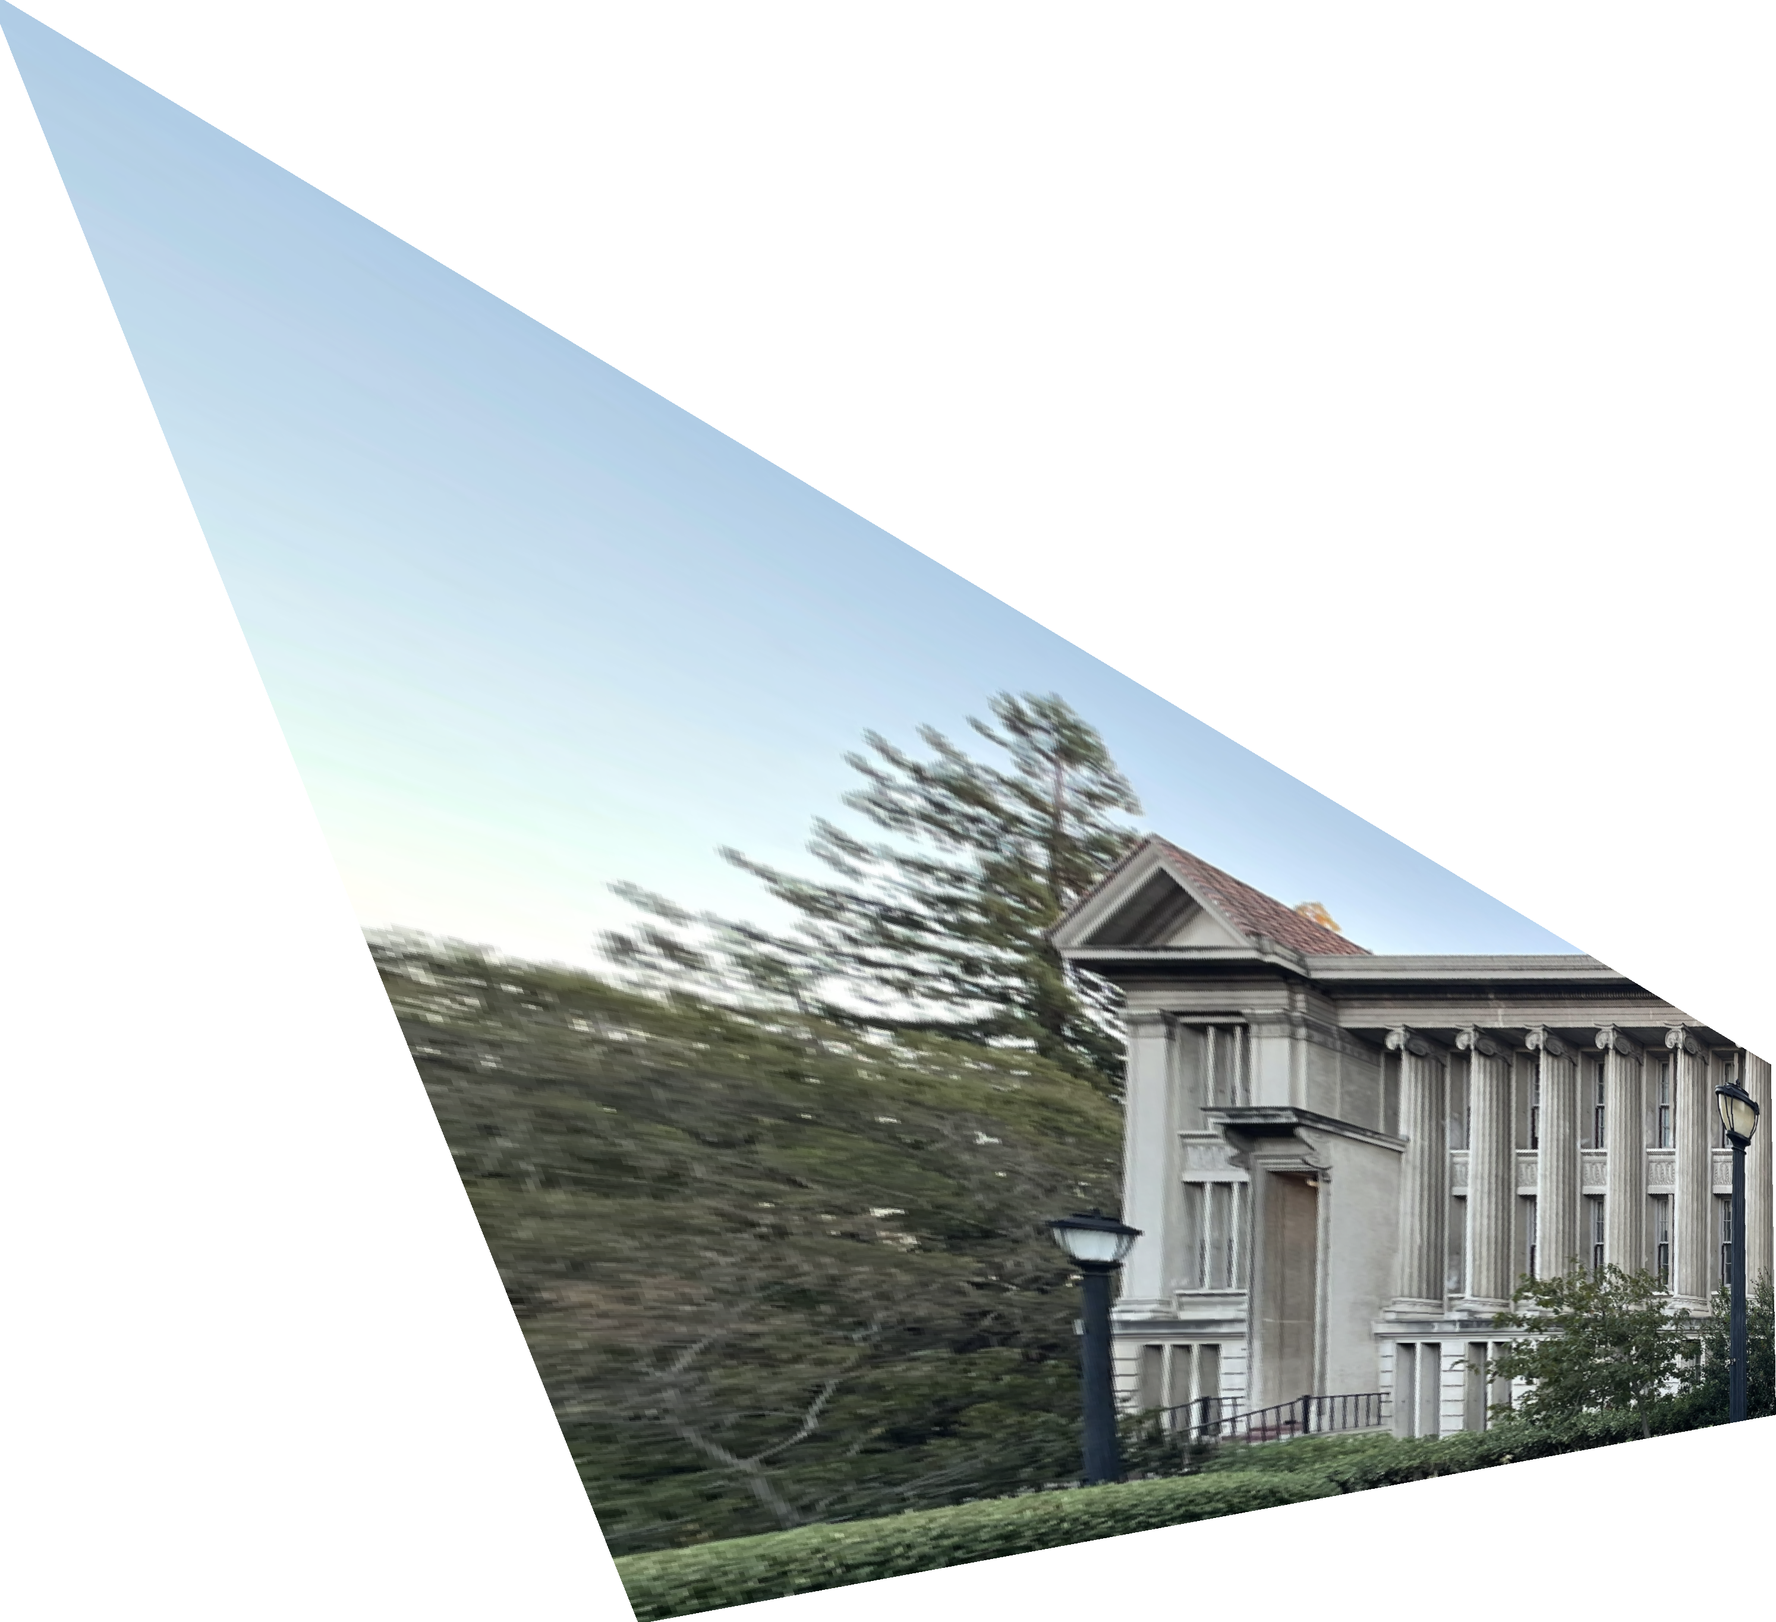
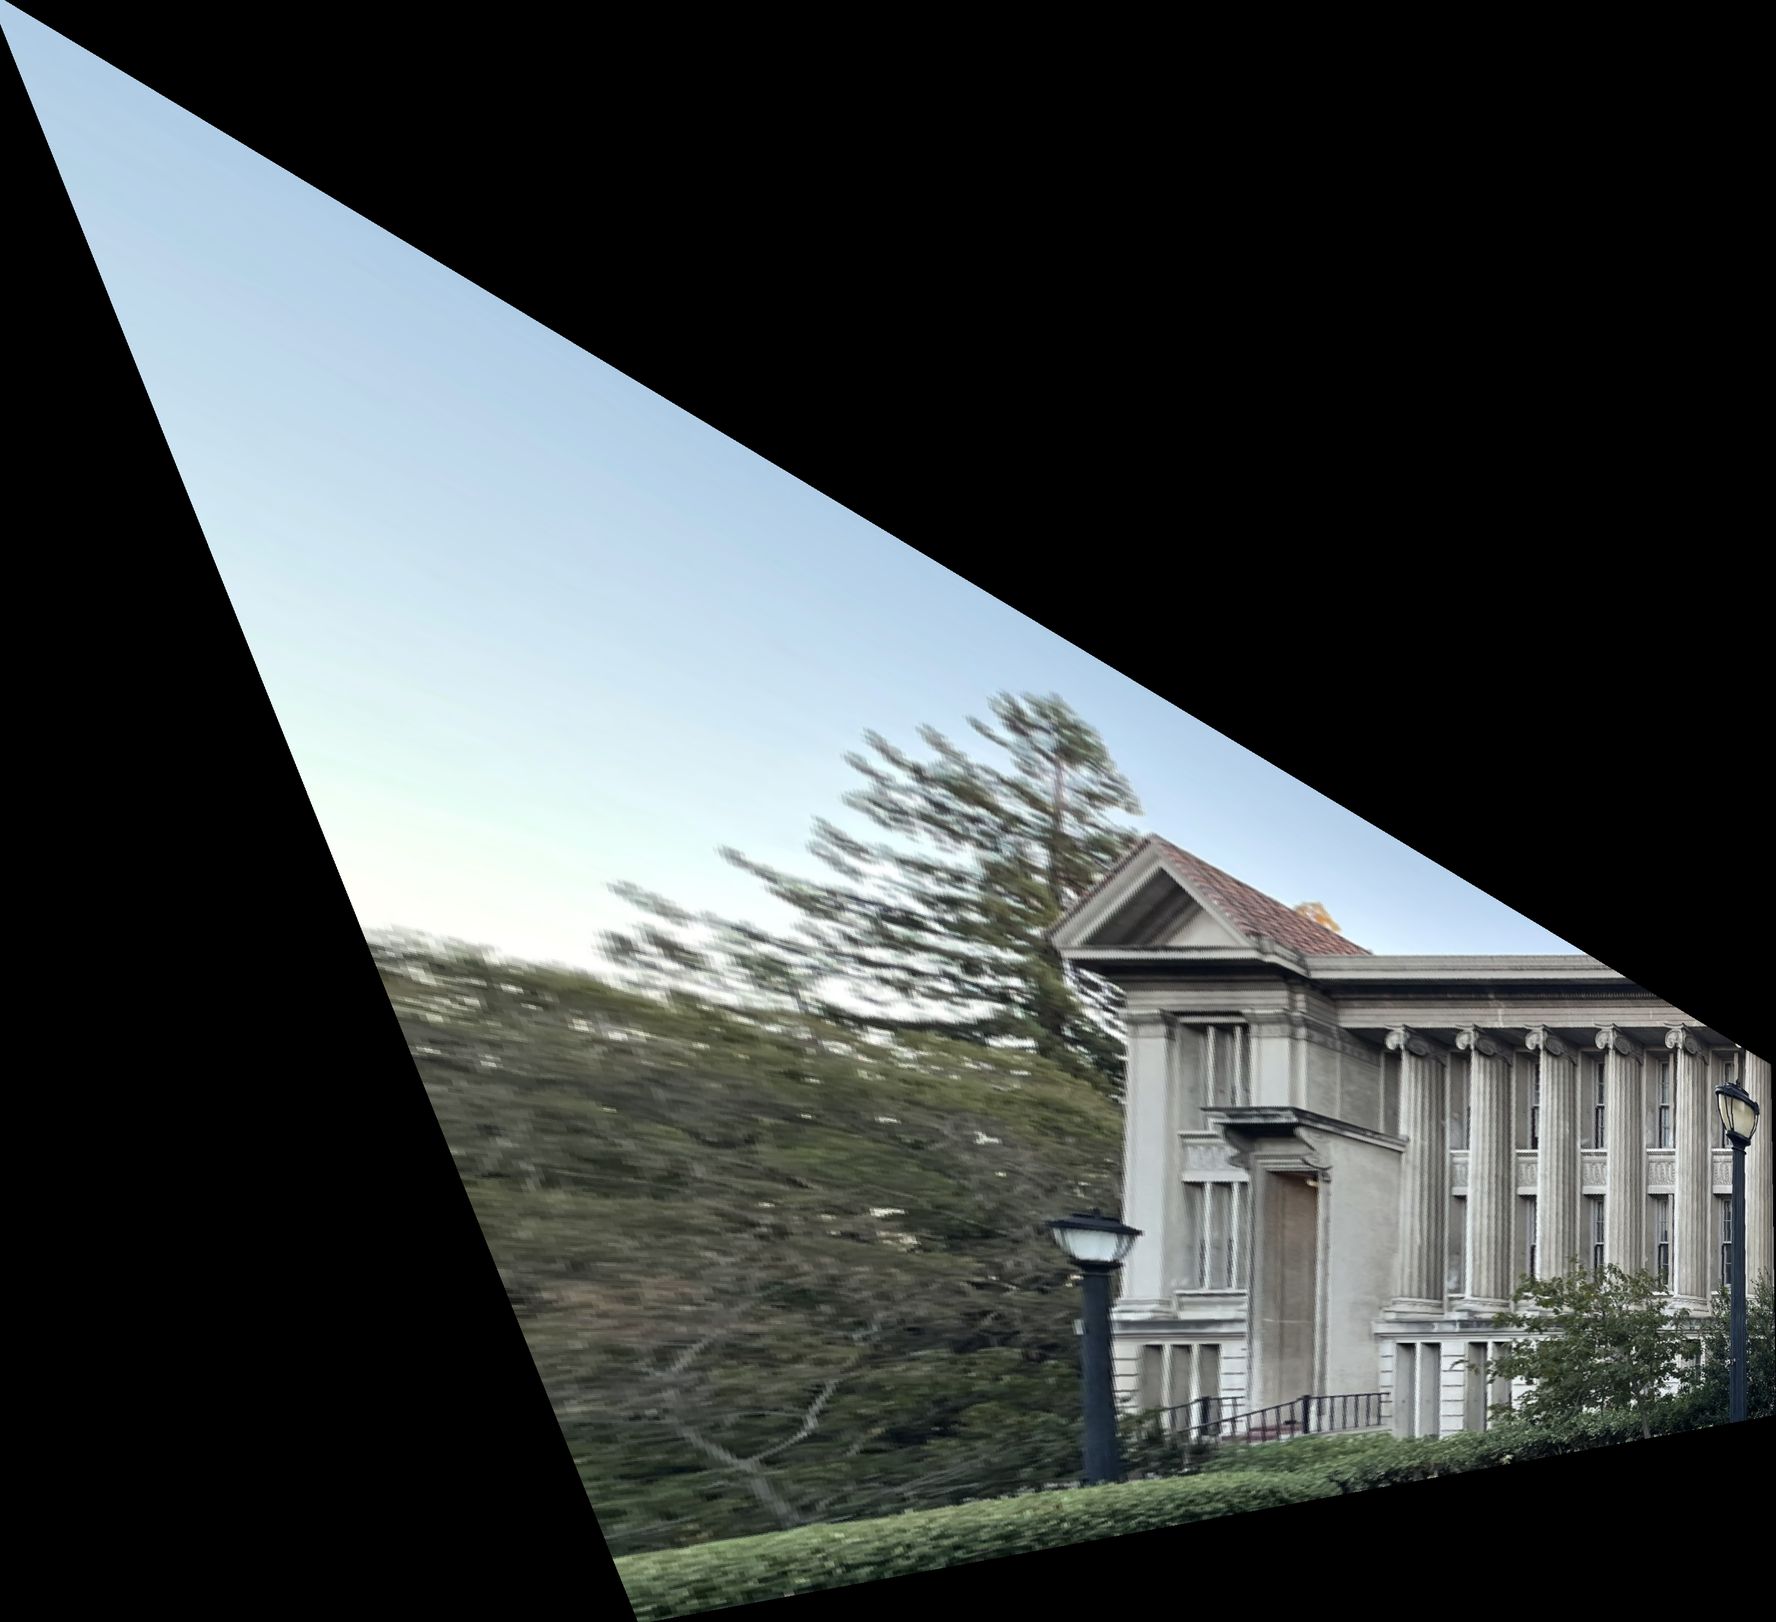
proj3a a.1-a.3 pres clean

diff --git a/proj3/index.html b/proj3/index.html
@@ -61,12 +61,13 @@
 			</p>
 		</div>
 
-		<h2 id="part1">Image Warping & Mosaicing</h2>
+		<h2 id="part1">Part 1: Image Warping & Mosaicing</h2>
 
     <h2 id="part1.1">Shooting our Pictures</h2>
 		<div>
 			<p> 
-				Fixed COP & rotation
+                Consider the below pairs of images, which are taken from the same center of projection (COP), 
+                with one being rotated at more of an angle.
 			</p>
             <div class="image-grid-2" style="align-items:center; justify-content:center;">
                 <div class="image-item">
@@ -94,46 +95,117 @@
                     <img src="img/akira_right.png" height="210px" alt="box">
                 </div>
             </div>
+            <p> 
+                The goal for this part of the project is to combine these images together (panoramic stitching), 
+                and we'll walk through the steps for how to do so!
+			</p>
         </div>
     
     <h2 id="part1.2">Recovering Homographies</h2>
         <div>
-            <p>Setting up our Ax = b to solve for x, our homography matrix (as a vector)</p>
+            <p>
+                To stitch our images together, we first need to figure out warp one of the images to 
+                fit the other. Taking the above boba example, we cannot simply glue the two images 
+                together (even after doing some preliminary cropping), otherwise it will be obvious 
+                that the two images were taken from different angles.
+            </p>
+            <h3 id="part1.2">Step 1: Find Correspondencies</h2>
+                <p>
+                    We start by finding the correspondencies between the two images, manually selecting points 
+                    that are easily identifiable (e.g. corners) & appear in both images.
+                </p>
+                <div class="callout">
+                    <strong>Note:</strong> In part 2, we'll figure out how to find these points automatically.
+                </div>
+
+                <p>From the boba image from earlier, we selected the below points, numbered in red (9 total). 
+                    All the points appear in both images (e.g. the left tops of the cabinet handles), and 
+                    all points are easily identifiable (to reduce human error when selecting the corresponding 
+                    point).
+                </p>
+
+                <div class="image-grid-2" style="align-items:center; justify-content:center;">
+                    <div class="image-item">
+                        <p class="image-label">Left Image Points:</p>
+                        <img src="img/a2/akira_left_pts.png" height="210px" alt="box">
+                    </div>
+                    <div class="image-item">
+                        <p class="image-label">Right Image Points:</p>
+                        <img src="img/a2/akira_right_pts.png" height="80px" alt="box">
+                    </div>
+                </div>
+
+                <p>
+                    Here are the left image's and right image's point coordinates, respectively. We'll 
+                    call the left image's points (x, y), and the right image's points (u, v).</p>
+                <div class="img-container" style="align-items:center; justify-content:center;">
+                    $(u, v)= $<img src="img/a2/akira_left_pts_raw.png" height="200px" alt="cam_conv_dx">, $(x, y)= $
+                    <img src="img/a2/akira_right_pts_raw.png" height="200px" alt="cam_conv_dx">
+                </div>
+
+            <h3>Detour: Homography Matrix</h3>
+                <p>Turns out, warping our image is just a linear transformation of our pixels! We also call this 
+                    a homography, and we represent our transformation as a homography matrix that can be applied 
+                    to every pixel (hence the "linear" in linear transformation).
+                </p>
+                <p>To transform our (x, y) coordinate to (u, v), we can multiply it by our homography matrix:</p>
+                <div class="img-container" style="align-items:center; justify-content:center;">
+                    <img src="img/a2/homography.png" height="80px" alt="cam_conv_dx">
+                </div>
+
+                <p>We can fix the last element of our homography matrix ($i$) to 1, since this is just a scaling factor. 
+                    Then, taking the above matrix and solving for $u$ and $v$, we obtain the following equation. $h$ is a 
+                    vector containing $a$ through $h$.
+                </p>
+                <div class="img-container" style="align-items:center; justify-content:center;">
+                    <img src="img/a2/solving.png" height="60px" alt="cam_conv_dx">
+                </div>
+
+            <p>
+                Below is a generalized version of our $Ah = b$, where we have multiple correspondencies selected, 
+                making our $A$ matrix tall (two rows per correspondence). 
+                We can then use least squares to solve for $h$ (which will be homography matrix). 
+            </p>
             <div class="img-container" style="align-items:center; justify-content:center;">
                 <img src="img/a2/homography_matrix.png" height="200px" alt="cam_conv_dx">
                 <img src="img/a2/homography_vector.png" height="200px" alt="cam_conv_dx"> $=$ 
                 <img src="img/a2/result_vector.png" height="200px" alt="cam_conv_dx">
             </div>
-
-            <p>Step 1: Find Correspondencies</p>
-            <div class="image-grid-2" style="align-items:center; justify-content:center;">
-                <div class="image-item">
-                    <p class="image-label">Left Image Points:</p>
-                    <img src="img/a2/akira_left_pts.png" height="210px" alt="box">
-                </div>
-                <div class="image-item">
-                    <p class="image-label">Right Image Points:</p>
-                    <img src="img/a2/akira_right_pts.png" height="80px" alt="box">
-                </div>
+            
+            <div class="callout">
+                <strong>Note:</strong> We need to select at least 4 pairs of points, since our homography matrix 
+                has 8 degrees of freedom (a-h, and i is a scaling constant).
             </div>
-
-            <p>Akira's (x,y) and (u,v) points, respectively:</p>
-            <div class="img-container" style="align-items:center; justify-content:center;">
-                $(u, v) $<img src="img/a2/akira_left_pts_raw.png" height="200px" alt="cam_conv_dx">, $(x, y): $
-                <img src="img/a2/akira_right_pts_raw.png" height="200px" alt="cam_conv_dx">
-            </div>
-
-            <p>Step 2: Plug into A and b, then solve for the homography. Append a 1 to the homography 
-                for the scaling factor (choose 1 because of how we picked values in our A matrix).
+            
+            <h3>Step 2: Solving for Homography Matrix</h3>
+            <p>Going back to our boba example, we have our (x, y) and (u, v) points, so we can 
+                plug them directly into our equation and solve for our homography matrix!
             </p>
+            <ul>
+                <li>
+                    Using the format $Ah = b$, we know all the values in $A$ and $b$, so we can solve for 
+                    all the values in $h$ using least squares.
+                </li>
+                <li>
+                    By construction, $h$ is a vector form of our homography matrix, without the $9^{th}$ element 
+                    (scaling factor), 1. 
+                    Thus, we append $1$ to $h$, then reshape it to $3x3$ to get our homography matrix.
+                </li>
+            </ul>
             <div class="img-container" style="align-items:center; justify-content:center;">
                 <img src="img/a2/akira_matrix.png" height="300px" alt="cam_conv_dx">
                 <img src="img/a2/akira_h_vector.png" height="200px" alt="cam_conv_dx"> $=$ 
                 (vector of $u_i$ and $v_i$ from values above)
             </div>
+            <p>Homography matrix:</p>
+            <div class="img-container" style="align-items:center; justify-content:center;">
+                <img src="img/a2/akira_H_Matrix.png" height="60px" alt="cam_conv_dx">
+            </div>
 
-            <p>Step 3: apply obtained homography matrix to our image. In this case, we're warping the 
-                left image (x, y points) to the right image (u, v points). We notice that the points 
+            <h3>Step 3: Applying the Homography Matrix</h3>
+            <p>Now that we've obtained our homography matrix, let's apply it to our image to verify that 
+                it works! Going back to the boba example, we'll apply the homography matrix to our left image, 
+                warping the left image (x, y points) to the right image (u, v points). We notice that the points 
                 in the warped left image and in the right image now line up relative to each other!
             </p>
 
@@ -147,39 +219,56 @@
                     <img src="img/a2/akira_right_pts.png" height="80px" alt="box">
                 </div>
             </div>
-            <p>Here's a zoomed in version of the above images, so you can actually see that the points line up!</p>
+            <p>Here's a zoomed in version of the above images, so you can actually see that the points line up, 
+                and that the images look like they're taken from one angle.
+            </p>
 
             <div class="image-grid-2" style="align-items:center; justify-content:center;">
                 <div class="image-item">
                     <p class="image-label">Left Image, Warped (Zoom):</p>
-                    <img src="img/a2/akira_warp_pts_zoom.png" height="210px" alt="box">
+                    <img src="img/a2/akira_warp_pts_zoom.png" height="100px" alt="box">
                 </div>
                 <div class="image-item">
                     <p class="image-label">Right Image (Unmodified, Zoom):</p>
-                    <img src="img/a2/akira_right_pts_zoom.png" height="80px" alt="box">
+                    <img src="img/a2/akira_right_pts_zoom.png" height="100px" alt="box">
                 </div>
             </div>
             
             <p>(So how do we actually line up the warped left image and the right image? 
                 We'll cover that below in "Mosaicing"!)</p>
-            <p>TODO: repaste prev images (made them black background instead of clear but didn't update website for 3a)</p>
         </div>
     <h2 id="part1.3">Warping Images</h2>
     <div>
-        <p>Earlier, how did we apply our homographic matrix to our image? We considered two methods:</p>
+        <p>Earlier, how did we apply our homography matrix to our image? We cannot simply apply the 
+            homography to every pixel in our original image, then map it to the location in our warped image. 
+            For some intuition as to why, image if our warped image's dimensions were much bigger. Then, not every 
+            pixel in our warped image will be filled, if we mapped every input pixel to it.
+        </p>
+        <p>Instead of forward warping, we'll use inverse warping! That way, we won't have unfilled holes in our 
+            warped image, since we're reverse mapping from the warped pixel to the original pixel(s). First, we'll find the 
+            inverse of our $H$ matrix, to find where every warped pixel "lands" in our original image. Then, we'll interpolate 
+            the value based on the nearby landed pixels (since our "landing" spot isn't always a perfect integer coordinate).
+            We'll consider two methods for interpolation:
+        </p>
         <ul>
-            <li>Nearest Neighbor Interpolation:
+            <li>Nearest Neighbor Interpolation: we round our "landing" (x, y) to the nearest integer, then use that pixel's value.
                 <!-- <ul><li>hello</li></ul> -->
-                 <p>Pros: faster, doesn't hallucinate (no new colors)</p>
-                 <p>Cons: can result in sharp edge artifacts</p>
+                 <p>   - Pros: NN is faster, since we only consider one value per pixel (no averaging). 
+                    NN also doesn't hallucinate, meaning that all colors shown are colors that are present in the original image.</p>
+                 <p>   - Cons: NN can result sharp edge artifacts, such as unwanted edges when interpolating a curve.</p>
             </li>
-            <li>Bilinear Interpolation:
-                <p>Pros: better transitions (no unwanted sharp artifacts)</p>
-                 <p>Cons: slower, hallucinates</p>
+            <li>Bilinear Interpolation: we'll find the four pixels neighboring our "landing" position, then take their weighted 
+                average depending on their x and y distances from the "landing" position.
+                <p>- Pros: Bilinear gives better/smoother transitions, i.e. no unwanted sharp artifacts.</p>
+                 <p>- Cons: Bilinear is slower because of the averaging. Because it has smoother results, it 
+                    may have worser results if sharp edges are desired.</p>
             </li>
         </ul>
 
-        <p>With homographies, we can also rectify images. </p>
+        <p>Below are some examples of images we rectify with homographies, using both NN and bilinear interpolation. 
+            We performed the rectification by picking an object in the image that has a known shape (e.g. a window should 
+            be shaped as a rectangle), then choosing the resulting (u, v) points based on that known shape.
+        </p>
         <div class="image-grid" style="align-items:center; justify-content:center;">
             <div class="image-item">
                 <p class="image-label">Box of Tea (Original):</p>
@@ -206,6 +295,18 @@
                 <img src="img/rect/akira_window_rect_bil.png" height="210px" alt="box">
             </div>
             <div class="image-item">
+                <p class="image-label">Physics Building (Original):</p>
+                <img src="img/rect/phys_downscaled.png" height="210px" alt="box">
+            </div>
+            <div class="image-item">
+                <p class="image-label">NN:</p>
+                <img src="img/rect/phys_rect_nn.png" height="80px" alt="box">
+            </div>
+            <div class="image-item">
+                <p class="image-label">Bilinear:</p>
+                <img src="img/rect/phys_rect_bil.png" height="210px" alt="box">
+            </div>
+            <div class="image-item">
                 <p class="image-label">Berkeley Seal (Original):</p>
                 <img src="img/rect/seal_orig.png" height="210px" alt="box">
             </div>
@@ -218,6 +319,32 @@
                 <img src="img/rect/seal_rect_bil.png" height="210px" alt="box">
             </div>
         </div>
+        <p>In the above images, it's a bit difficult to see the difference between NN 
+            and bilinear interpolation, since our image dimensions were relatively large. It seems preferable to 
+            use NN interpolation, just because it's faster and doesn't look different compared to the bilinear 
+            interpolation result.</p>
+        <div class="callout">
+            <strong>Note:</strong> Out of curiosity, we zoomed in on some detailed sections of the two interpolations 
+            (using the Akira window image). The left sides are using NN, and the right sides are from using bilinear.
+            <div class="img-container" style="align-items:center; justify-content:center;">
+                <p class="image-label">Barcode:</p>
+                <img src="img/rect/barcode.png" height="140px" alt="box">
+            </div>
+            <p>The NN image actually looks a bit nicer than the bilinear image, since we want barcode lines to 
+                be sharp! However, we can see some edge artifacts in both images (likely due to the homography 
+                itself), and those are more obvious in the NN image.</p>
+            <div class="img-container" style="align-items:center; justify-content:center;">
+                <p class="image-label">Shrub + Cups:</p>
+                <img src="img/rect/akira_nn_vs_bil.png" height="140px" alt="box">
+            </div>
+            <p>Again, we see that the NN image is sharper, though it could be argued that the bilinear image 
+                looks more natural (the shrub is more smoothly colored). But, as mentioned before, 
+                since this is such a small part of our 
+                image, the tiny differences don't make a significant visual difference - can you spot these differences 
+                clearly in the original image?
+            </p>
+        </div>
+
         
     </div>
     <h2 id="part1.4">Mosaicing</h2>

diff --git a/proj3/proj3.css b/proj3/proj3.css
@@ -154,7 +154,7 @@ body.dark-mode .sidebar a.active-toc {
 }
 
 .image-item:hover {
-  z-index: 999;
+  z-index: 2222;
 }
 
 .image-item img {
@@ -167,12 +167,14 @@ body.dark-mode .sidebar a.active-toc {
 .image-item:hover img {
   transform: scale(2);
   box-shadow: 0 8px 20px rgba(0, 0, 0, 0.3);
+  z-index: 2225;
 }
 
 .description {
   padding: 10px;
   font-size: 14px;
   color: #333;
+  z-index: 2;
 }
 
 .subtitle {
